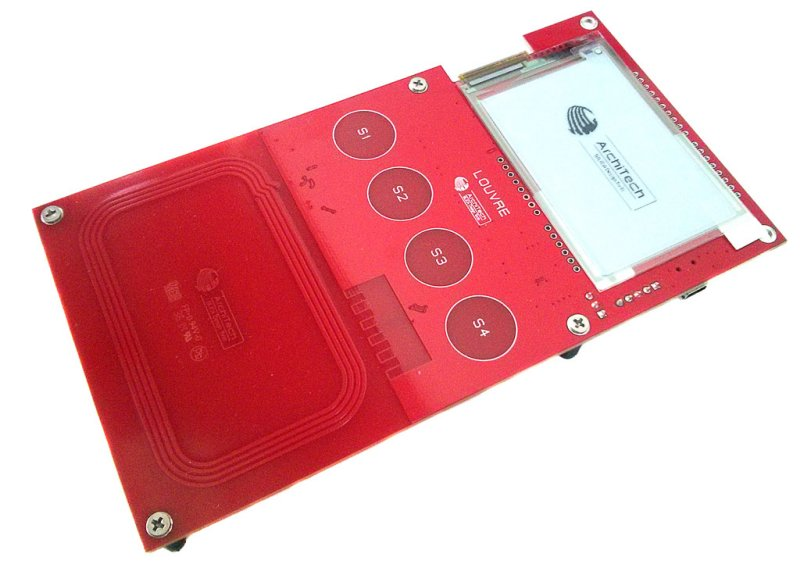
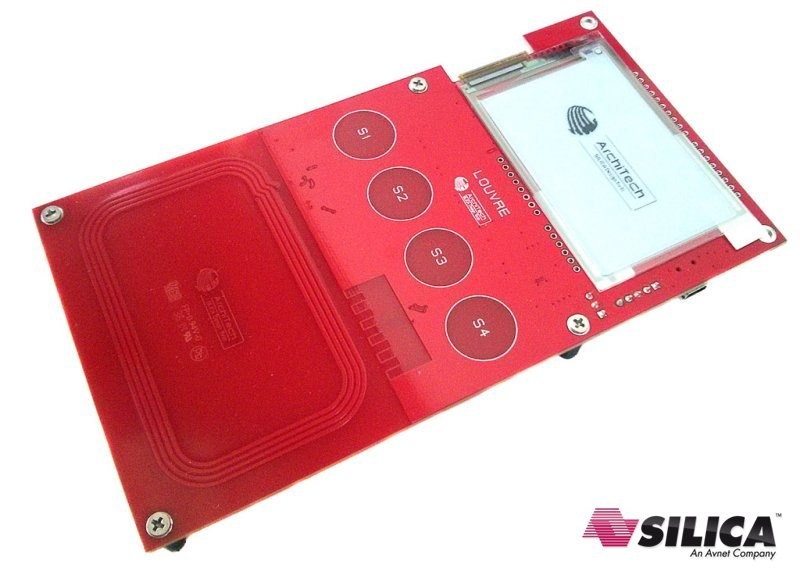
fix images

Changed region(s): [[0.7188, 0.887, 0.9688, 0.9757]]

diff --git a/source/index.rst b/source/index.rst
@@ -6,15 +6,9 @@ Welcome to Louvre Board's documentation!
 :Date: 26 Mar 2015
 
 .. image:: _images/louvre_board.jpg
-
-.. image:: _images/silica.png
-
 .. image:: _images/nxp.jpg
-
 .. image:: _images/ntag.jpg
-
 .. image:: _images/android.jpg
-
 .. index:: index
 
 Introduction
